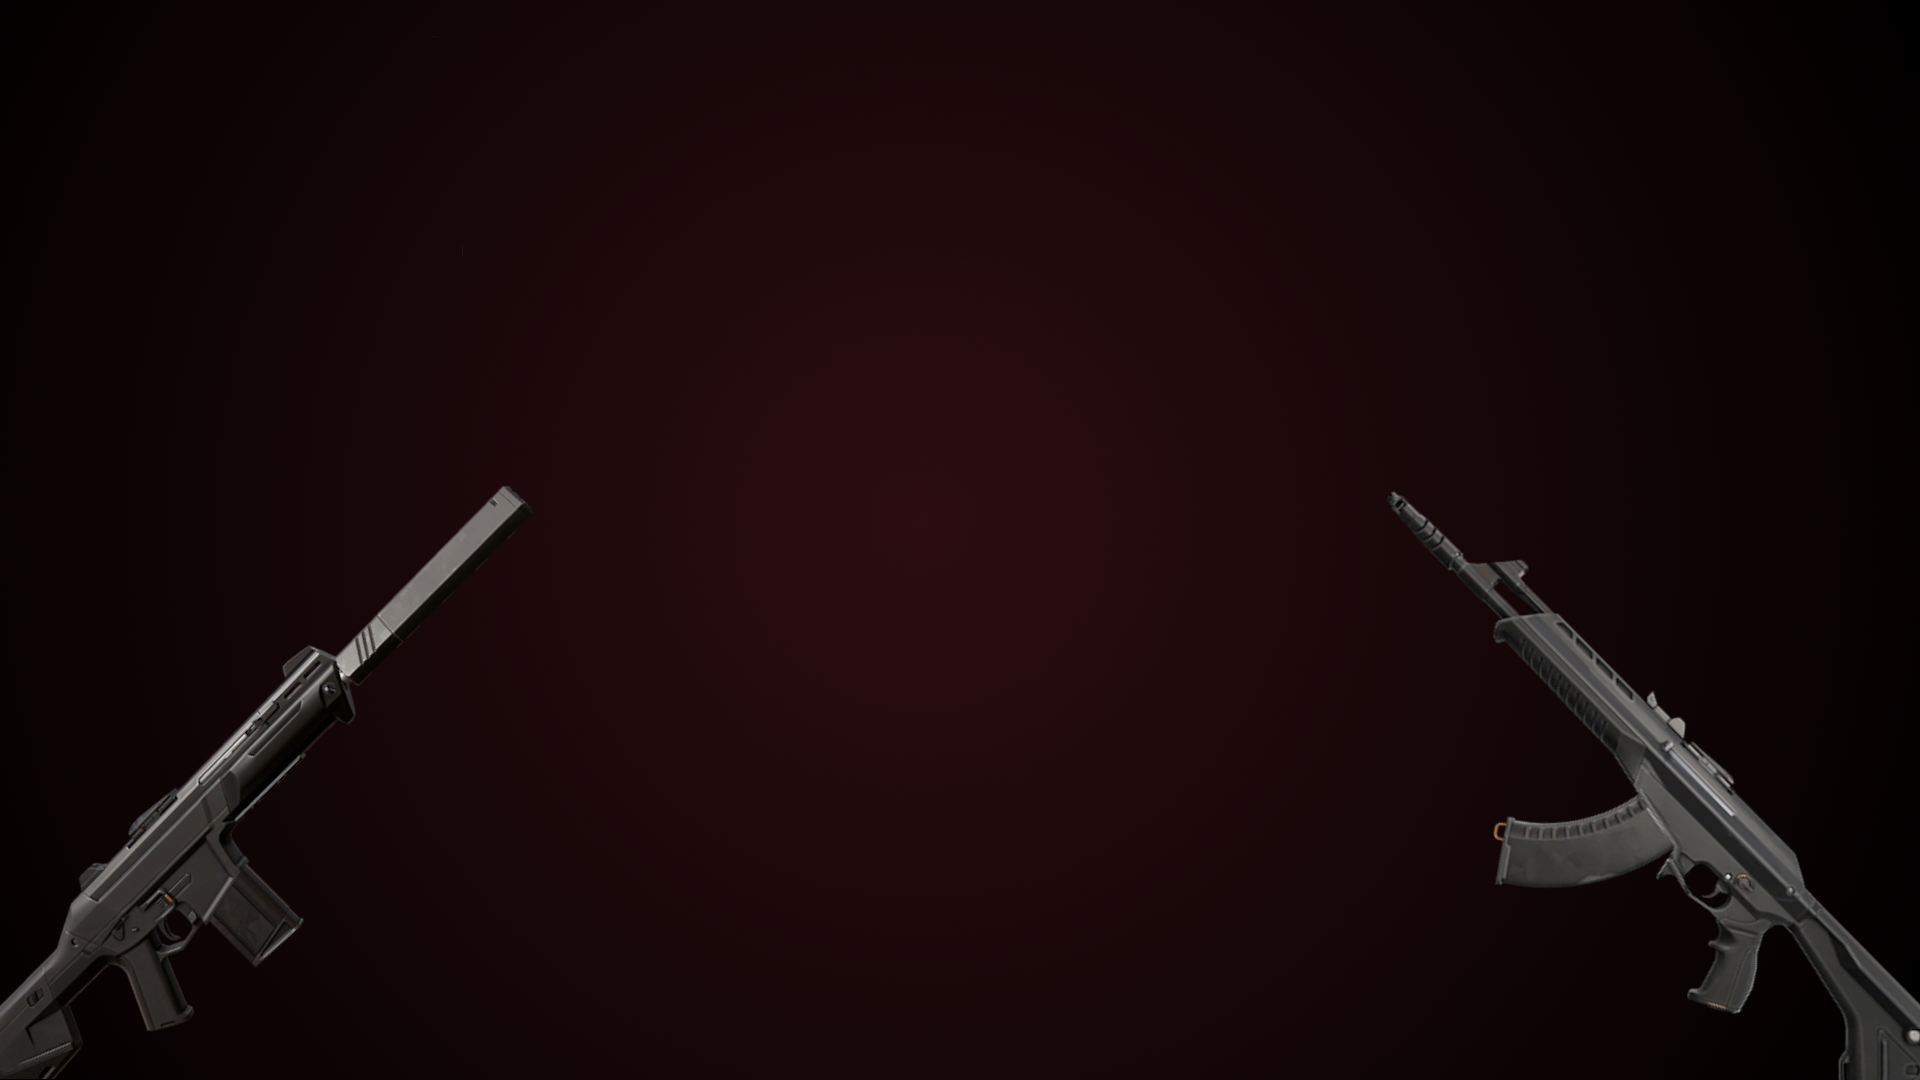
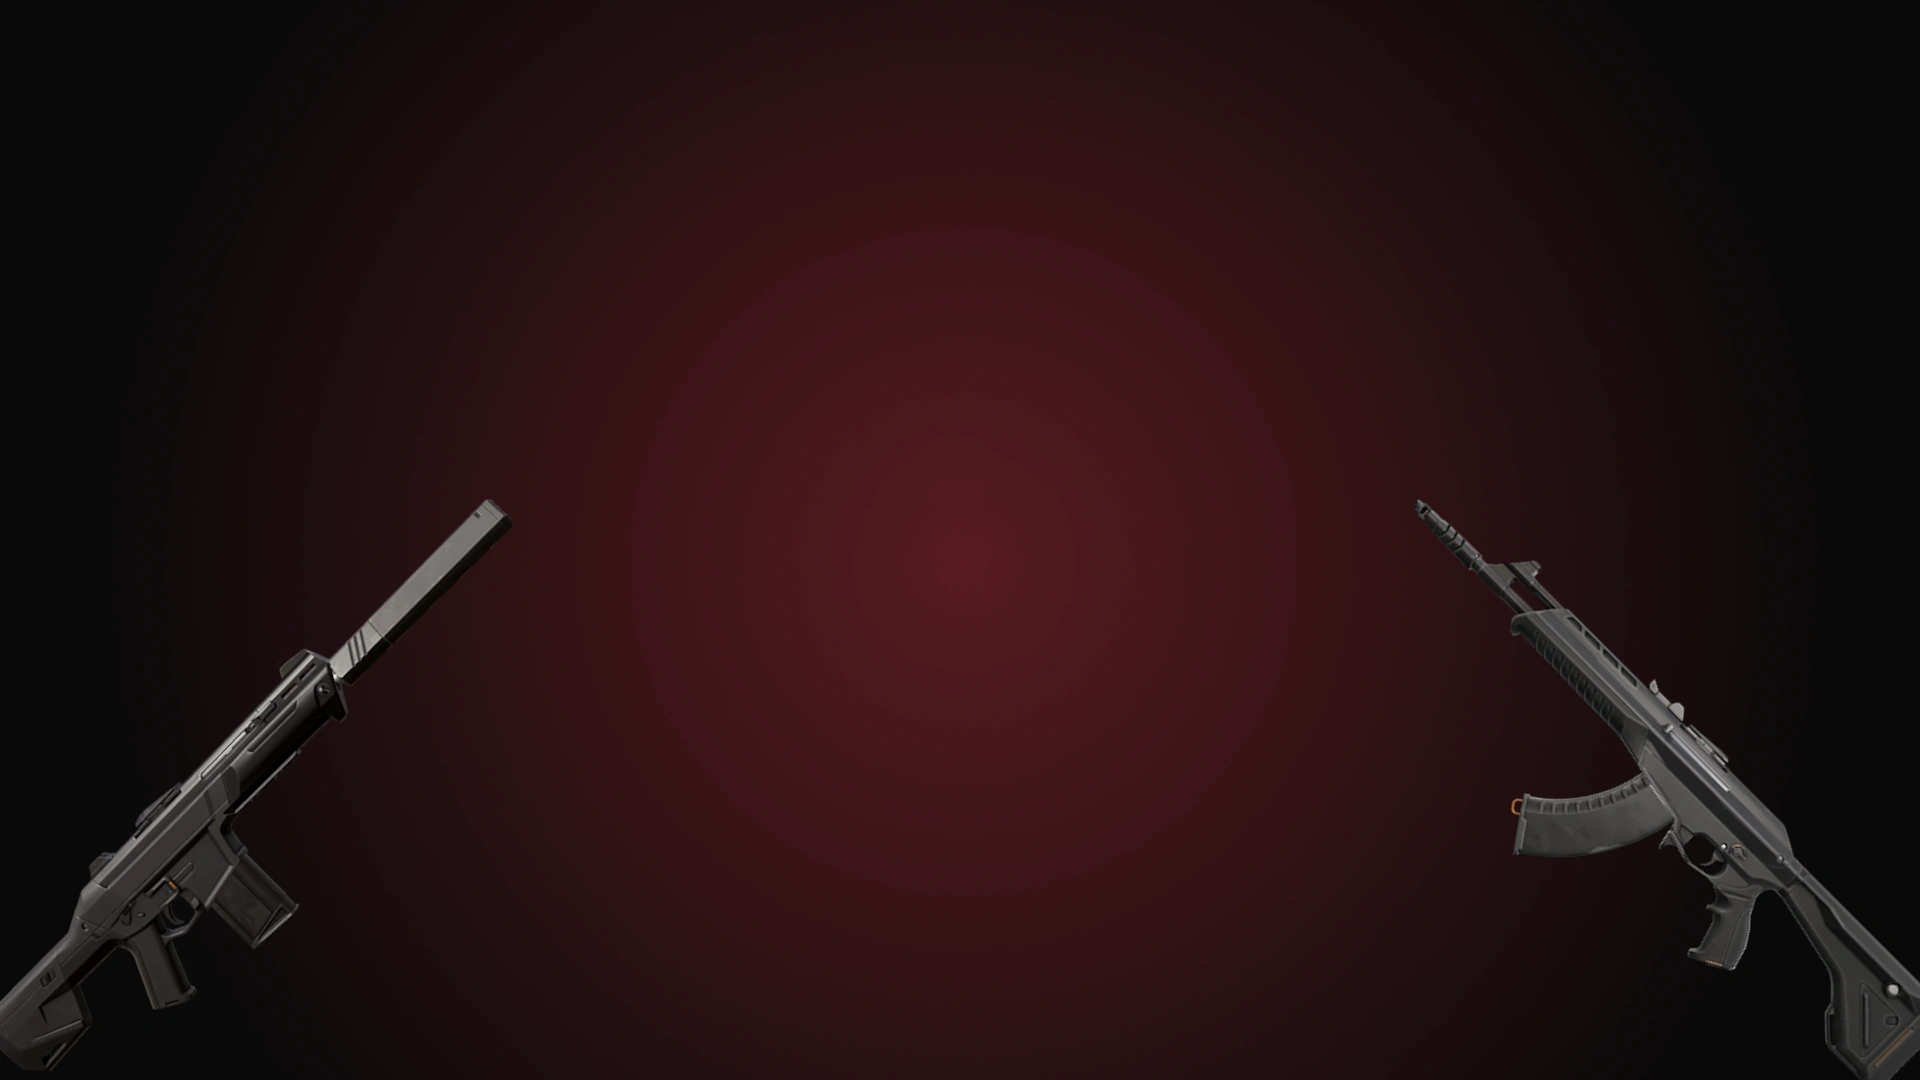
GitHub button to github image. Background update

Changed region(s): [[0.3125, 0.1833, 1.0, 1.0], [0.0, 0.4583, 0.2812, 1.0]]

diff --git a/front/src/pages/footer_log_reg.jsx b/front/src/pages/footer_log_reg.jsx
@@ -1,5 +1,6 @@
 import React from 'react';
 import '../styles/footer.css';
+import gitHubIcon from '../assets/github.webp'
 
 export default function Footer() {
   return (
@@ -8,7 +9,9 @@ export default function Footer() {
         <a className="download-btn" href="https://playvalorant.com" target="_blank" rel="noreferrer">Instalar Jogo</a>
       </div>
       <div>
-        <a className="github-btn" href="https://github.com/01baesso/valorant-inventory-builder" target="_blank" rel="noreferrer">GitHub</a>
+        <a className="github-btn" href="https://github.com/01baesso/valorant-inventory-builder" target="_blank" rel="noreferrer">
+          <img src={gitHubIcon} alt="GitHub Logo" />
+        </a>
       </div>
     </footer>
   );

diff --git a/front/src/pages/register.jsx b/front/src/pages/register.jsx
@@ -28,7 +28,7 @@ export default function Register() {
       return;
     }
     if (password.trim() !== confirmPassword.trim()) {
-      setError("As senhas devem ser iguais!");
+      setError("As senhas devem ser iguais.");
       return;
     }
     
@@ -88,7 +88,7 @@ export default function Register() {
         <button type="submit">Cadastrar</button>
 
         <div className="signup-link" style={{marginTop:12}}>
-          <p>Já tem conta? <button type="button" onClick={() => navigate('/')}>Voltar ao Login</button></p>
+          <p>Já tem uma conta? <button id="back-to-login" type="button" onClick={() => navigate('/')}>Voltar ao Login</button></p>
         </div>
       </form>
     </div>

diff --git a/front/src/pages/header_log_reg.jsx b/front/src/pages/header_log_reg.jsx
@@ -8,7 +8,7 @@ export default function Header() {
     <header className="site-header">
       <div className="left">
         <a href="https://playvalorant.com" target="_blank" rel="noreferrer">
-          <img src={logo} alt="Valorant" style={{height:40}}/>
+          <img src={logo} alt="Valorant Logo"/>
         </a>
       </div>
       <div className="center">

diff --git a/front/src/styles/footer.css b/front/src/styles/footer.css
@@ -36,15 +36,7 @@
 }
 
 /* Botão GitHub */
-.github-btn {
-  background: rgba(10,10,10,0.98);
-  color: #ff4655;
-  border: 1px solid #ff4655;
-  transition: 0.25s ease;
-}
-
-.github-btn:hover {
-  background: #ff4655;
-  color: black;
-  transition: 0.25s ease;
+.github-btn img {
+  height: 40px;
+  cursor: pointer;
 }

diff --git a/front/src/styles/header.css b/front/src/styles/header.css
@@ -32,7 +32,7 @@
 .site-header .right select {
   background: #121212;
   color: #fff;
-  border: 1px solid rgba(255,70,85,0.26);
+  border: 1px solid #ff4655;
   padding: 8px 12px;
   border-radius: 6px;
   /* font-family: 'Inter', sans-serif; */

diff --git a/front/src/styles/form.css b/front/src/styles/form.css
@@ -80,6 +80,10 @@ button:hover {
     transform: scale(1.04);
 }
 
+#back-to-login{ 
+    margin-top: 20px;
+}
+
 .signup-link {
     margin-top: 20px;
     text-align: center;
